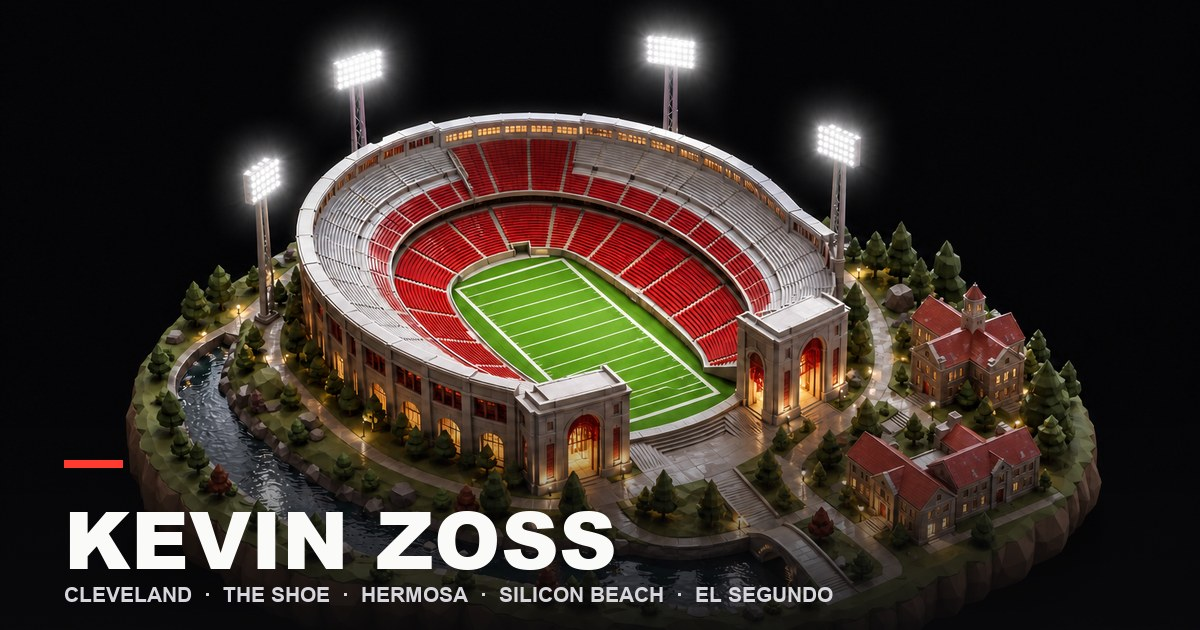
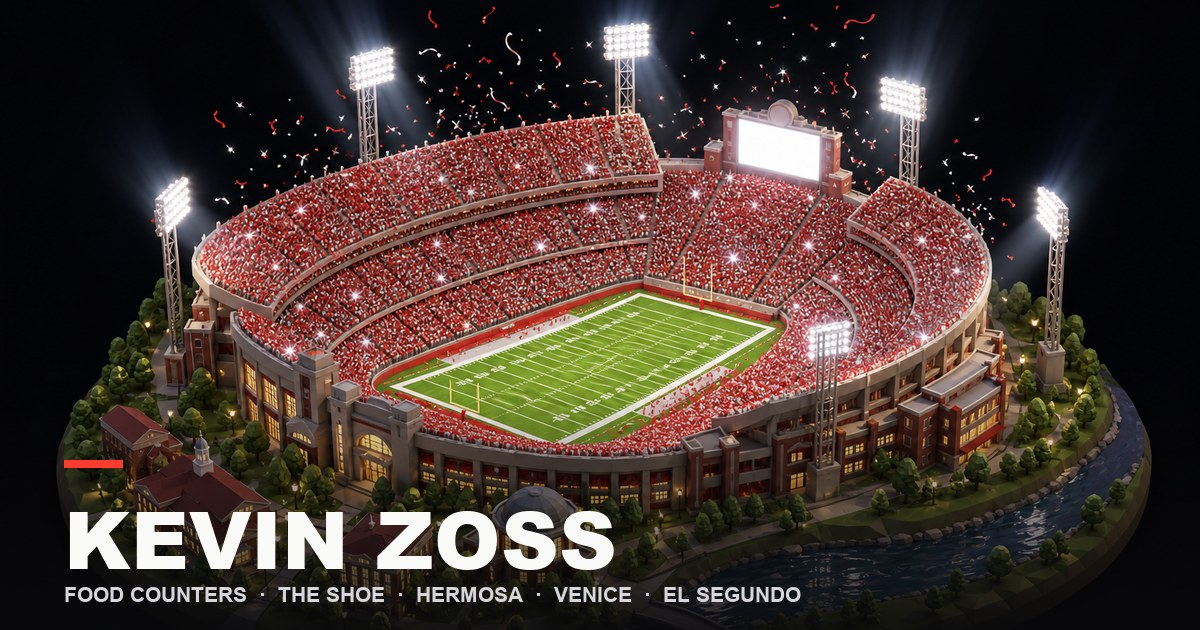
feat: refined worlds with the real story — Solon jobs + Feed Cleveland, packed Shoe, 2010 Hermosa spots, Venice rooftop, designer backyard
Cleveland is now a zoomed-out Solon/Metroparks landscape with legible signage for
Tuscany, Zoss, Sharper Image, Solon Rec, TJ Wolf, plus a Feed Cleveland warehouse
with loading dock. Copy rewritten around the real arc: food counters -> food-recovery
nonprofit -> tech. Shoe is packed to the rim with game-winning-play energy. Hermosa
gained Underground/Sharkeez/Fenners/Poop Deck storefronts. Silicon Beach became a
Venice rooftop over the boardwalk and skate bowl. Backyard upgraded to sunken fire
pit + plunge pool + pergola. First-pass art retired; share card rebuilt.

diff --git a/index.html b/index.html
@@ -3,10 +3,10 @@
 <head>
   <meta charset="utf-8" />
   <meta name="viewport" content="width=device-width, initial-scale=1, viewport-fit=cover" />
-  <title>Kevin Zoss — Cleveland to El Segundo</title>
-  <meta name="description" content="Five worlds, one long play: a Cleveland corner, the Horseshoe, Hermosa Beach, Silicon Beach, and a golden-hour backyard in El Segundo. Kevin Zoss builds attention for a living." />
-  <meta property="og:title" content="Kevin Zoss — Cleveland to El Segundo" />
-  <meta property="og:description" content="Scroll the five worlds: Cleveland, the Horseshoe, Hermosa Beach, Silicon Beach, and now." />
+  <title>Kevin Zoss — food counters to a city of screens</title>
+  <meta name="description" content="Five worlds, one long play: Solon food counters and Feed Cleveland, Saturdays in the Horseshoe, Hermosa Beach, a Venice rooftop, and the backyard where it all ships now." />
+  <meta property="og:title" content="Kevin Zoss — food counters to a city of screens" />
+  <meta property="og:description" content="Scroll the five worlds: Solon, the Horseshoe, Hermosa, Venice, and now." />
   <meta property="og:type" content="website" />
   <meta property="og:url" content="https://kevinzoss.com/" />
   <meta property="og:image" content="https://kevinzoss.com/assets/og-card.jpg" />
@@ -30,7 +30,7 @@
     <a href="#s1"><span class="dot"></span><span class="lbl">Cleveland</span></a>
     <a href="#s2"><span class="dot"></span><span class="lbl">The Shoe</span></a>
     <a href="#s3"><span class="dot"></span><span class="lbl">Hermosa</span></a>
-    <a href="#s4"><span class="dot"></span><span class="lbl">Silicon Beach</span></a>
+    <a href="#s4"><span class="dot"></span><span class="lbl">Venice</span></a>
     <a href="#s5"><span class="dot"></span><span class="lbl">El Segundo</span></a>
   </nav>
 
@@ -39,12 +39,13 @@
   <!-- CH 1 — CLEVELAND -->
   <div class="scene-span" id="s1" data-scroll="2.3">
     <section class="scene-stage" style="--scene-accent:#F0A93C; --driftx:-3.5vw; --drifty:-3vh; --rot:-0.7deg; --copyx:-40px" aria-label="Cleveland">
-      <div class="scene-bg" style="background-image:url('assets/h-cleveland.webp')"></div>
+      <div class="scene-bg" style="background-image:url('assets/h2-cleveland.webp')"></div>
       <div class="scene-scrim"></div>
       <div class="scene-copy">
-        <p class="scene-eyebrow">Chapter one · Cleveland</p>
-        <h1 class="scene-title">Nobody hands you anything in <em>Cleveland.</em></h1>
-        <p class="scene-body">Rust-belt rules: you show up, you outwork it, and you don't complain about the weather. Everything I know about grinding started on a street like this one.</p>
+        <p class="scene-eyebrow">Chapter one · Solon, Ohio</p>
+        <h1 class="scene-title">It started behind a <em>food counter.</em></h1>
+        <p class="scene-body">Tuscany, Zoss the Swiss Baker, TJ Wolf chocolate, Sharper Image, Solon Rec — I worked all of them. Then I built Feed Cleveland, a nonprofit that moved surplus food from restaurants and grocers to food banks. Same instinct ever since: find what's being wasted and route it where it matters.</p>
+        <div class="scene-tags"><span>Food counters</span><span>Feed Cleveland</span><span>Then tech</span></div>
       </div>
     </section>
   </div>
@@ -52,12 +53,12 @@
   <!-- CH 2 — THE SHOE -->
   <div class="scene-span" id="s2" data-scroll="2.5">
     <section class="scene-stage" style="--scene-accent:#FF3B2F; --driftx:3.5vw;  --drifty:-4vh; --rot:0.9deg;  --copyx:44px" aria-label="The Horseshoe">
-      <div class="scene-bg" style="background-image:url('assets/h-shoe.webp')"></div>
+      <div class="scene-bg" style="background-image:url('assets/h2-shoe.webp')"></div>
       <div class="scene-scrim"></div>
       <div class="scene-copy">
-        <p class="scene-eyebrow">Chapter two · Saturdays</p>
+        <p class="scene-eyebrow">Chapter two · Saturdays in the Shoe</p>
         <h2 class="scene-title">100,000 people. <em>One feeling.</em></h2>
-        <p class="scene-body">The Horseshoe was my first real lesson in attention — what it sounds like when one moment lands on a hundred thousand people at the same time. I've been chasing that sound professionally ever since.</p>
+        <p class="scene-body">Game on the line, and the whole place comes apart at once. That was my first real lesson in what attention feels like at scale — and I've been chasing that sound professionally ever since.</p>
       </div>
     </section>
   </div>
@@ -65,12 +66,12 @@
   <!-- CH 3 — HERMOSA BEACH -->
   <div class="scene-span" id="s3" data-scroll="2.5">
     <section class="scene-stage" style="--scene-accent:#FF7A5C; --driftx:-4vw;   --drifty:-2.5vh;--rot:-0.6deg; --copyx:-44px" aria-label="Hermosa Beach">
-      <div class="scene-bg" style="background-image:url('assets/h-hermosa.webp')"></div>
+      <div class="scene-bg" style="background-image:url('assets/h2-hermosa.webp')"></div>
       <div class="scene-scrim"></div>
       <div class="scene-copy">
         <p class="scene-eyebrow">Chapter three · Hermosa Beach</p>
         <h2 class="scene-title">Then I traded snow for <em>saltwater.</em></h2>
-        <p class="scene-body">Pier, Strand, volleyball at golden hour — and a lot of early mornings working toward something bigger. Nothing about swapping lake-effect winters for this has ever stopped feeling like a win.</p>
+        <p class="scene-body">Underground, Sharkeez, Fenner's, the Poop Deck — I learned this town on foot, one block at a time, back when Hermosa was still a little rough around the edges. First real chapter of the LA hustle.</p>
       </div>
     </section>
   </div>
@@ -78,12 +79,12 @@
   <!-- CH 4 — SILICON BEACH -->
   <div class="scene-span" id="s4" data-scroll="2.5">
     <section class="scene-stage" style="--scene-accent:#FF4FA3; --driftx:4vw;    --drifty:-4vh; --rot:0.8deg;  --copyx:44px" aria-label="Silicon Beach">
-      <div class="scene-bg" style="background-image:url('assets/h-silicon.webp')"></div>
+      <div class="scene-bg" style="background-image:url('assets/h2-venice.webp')"></div>
       <div class="scene-scrim"></div>
       <div class="scene-copy">
-        <p class="scene-eyebrow">Chapter four · Silicon Beach</p>
+        <p class="scene-eyebrow">Chapter four · Venice</p>
         <h2 class="scene-title">Silicon Beach runs on <em>attention.</em></h2>
-        <p class="scene-body">Between the studios and the startups I learned how this city actually buys reach — billboards, feeds, and the rooms where budgets get decided. Then I co-founded Lazy Boy Agency to put brands inside the picture instead of next to it.</p>
+        <p class="scene-body">A rooftop over the boardwalk, the skate bowl below, tech money filling in around it. Between the studios and the startups I learned how this city actually buys reach — then co-founded Lazy Boy Agency to put brands inside the picture instead of next to it.</p>
         <div class="scene-tags"><span>Electrolit</span><span>Square</span><span>Dr. Squatch</span><span>Warby Parker</span></div>
       </div>
     </section>
@@ -92,12 +93,12 @@
   <!-- CH 5 — EL SEGUNDO -->
   <div class="scene-span" id="s5" data-scroll="2.7">
     <section class="scene-stage" style="--scene-accent:#FFB020; --driftx:-2.5vw; --drifty:-3.5vh;--rot:-0.5deg; --copyx:-36px" aria-label="El Segundo">
-      <div class="scene-bg" style="background-image:url('assets/h-elsegundo.webp')"></div>
+      <div class="scene-bg" style="background-image:url('assets/h2-elsegundo.webp')"></div>
       <div class="scene-scrim"></div>
       <div class="scene-copy">
         <p class="scene-eyebrow">Chapter five · El Segundo</p>
         <h2 class="scene-title">These days it ships <em>without me.</em></h2>
-        <p class="scene-body">A grass yard, three palm trees, golden hour, nothing on fire. Campaigns pacing themselves, ventures in the lab, AI teams building overnight — this site included. I said go; it did the rest.</p>
+        <p class="scene-body">A fire pit, a plunge pool, and nothing actually on fire. Campaigns pacing themselves, ventures in the lab, AI teams building overnight — this site included. I said go; it did the rest.</p>
         <div class="cta-row">
           <a class="btn btn-primary" href="mailto:kevin@lazyboyagency.com">Work with me</a>
           <a class="btn btn-ghost" href="about.html">The 60-second version</a>
